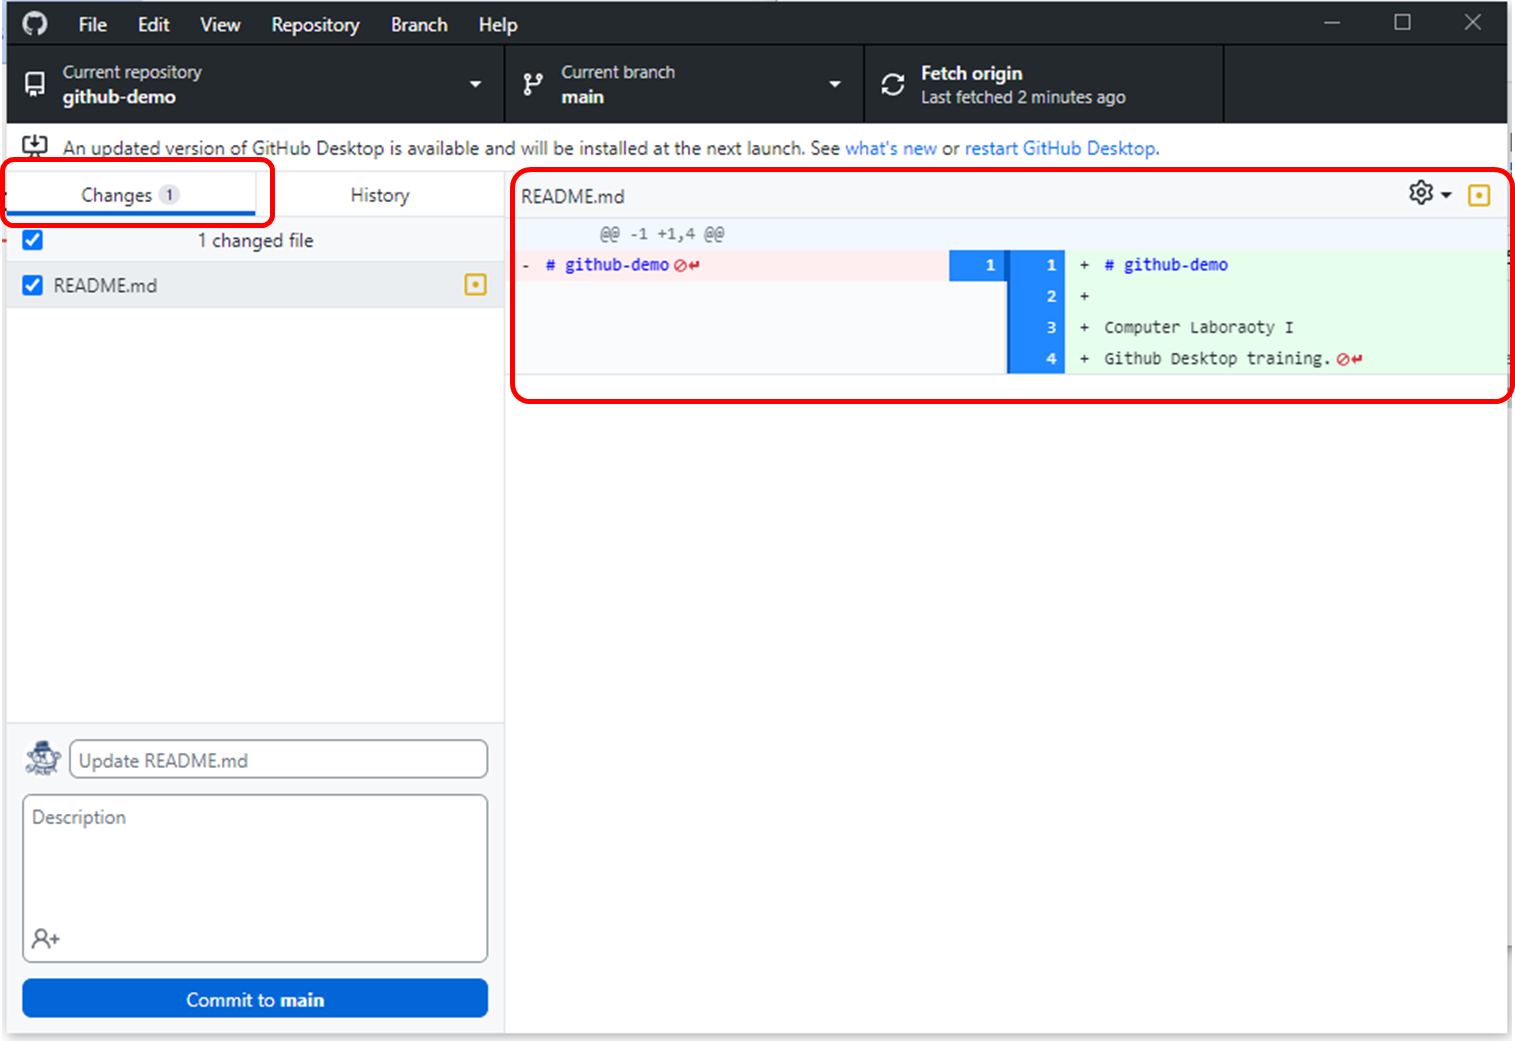
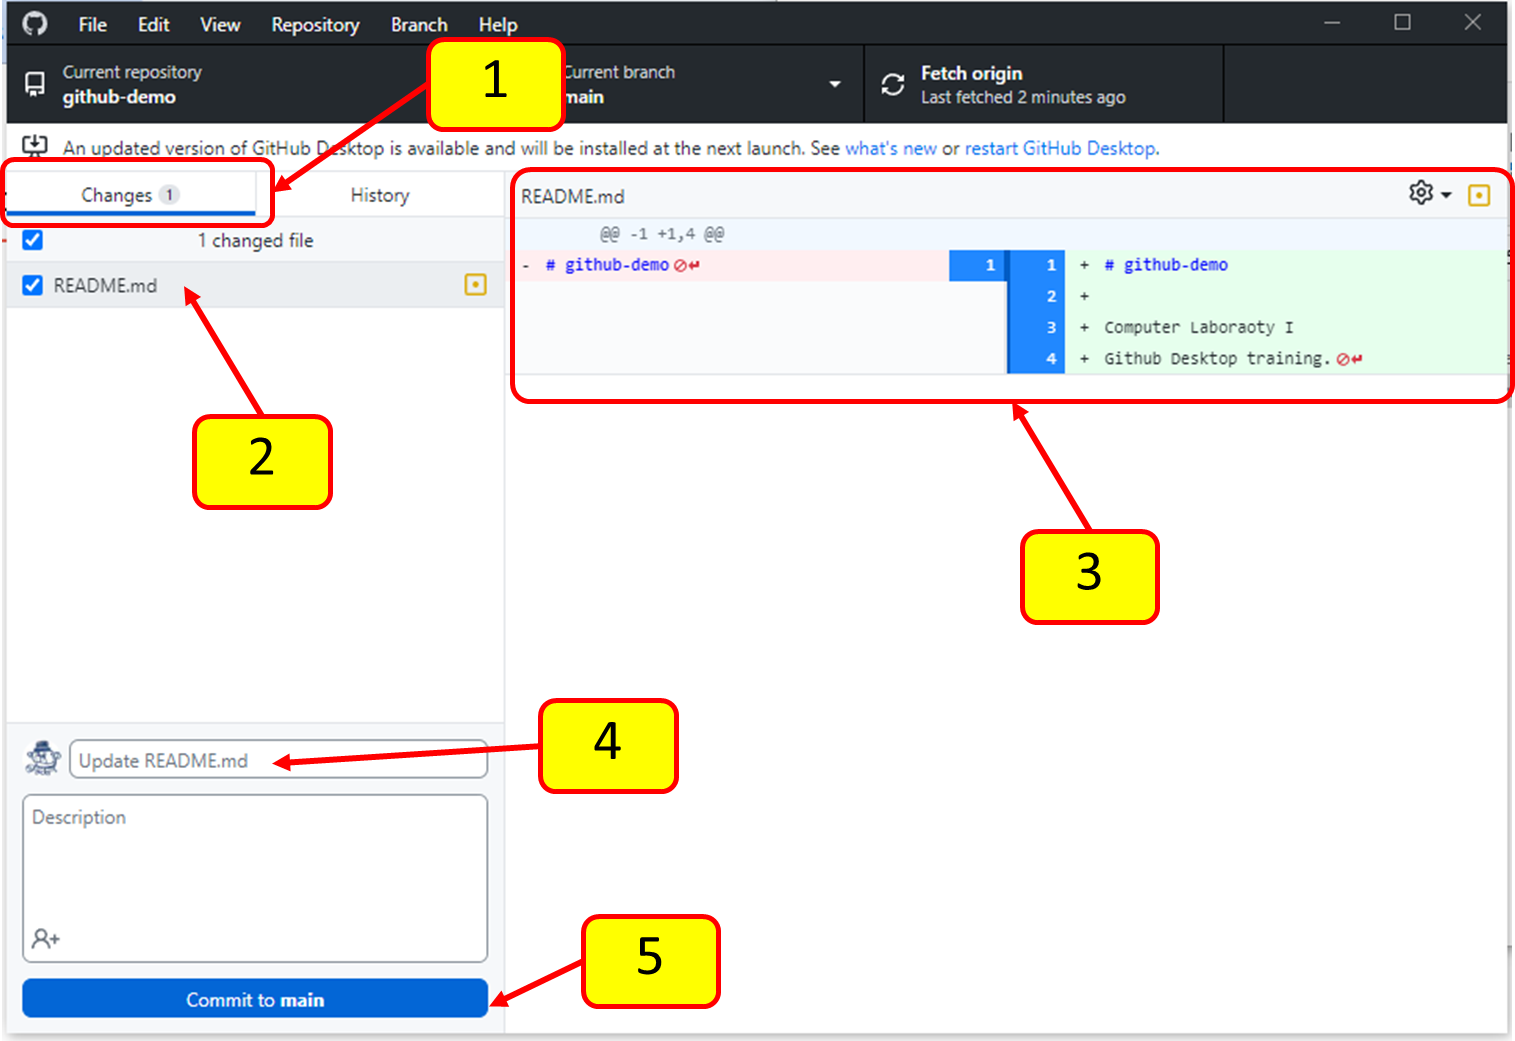
update labsheet and add picrures

diff --git a/W12-Labsheet-02.md b/W12-Labsheet-02.md
@@ -76,9 +76,105 @@
 
 บันทึกไฟล์ README.md
 
-#### 9. กลับไปที่โปนแกรม github desktop เพื่อตรวจสอบการเปลี่ยนแปลงที่เกิดขึ้น 
+#### 9. กลับไปที่โปนแกรม github desktop เพื่อตรวจสอบการเปลี่ยนแปลงที่เกิดขึ้น
 
 ![Alt text](./Pictures/Picture-12.png)
 
+(1) คลิกที่ Changes
+
+(2) คลิกที่ README.md
+
+(3) ตรวจสอบการเปลี่ยนแปลงของ README.md ว่าตรงกับที่เราแก้ไขไปหรือไม่ ถ้าไม่ตรง อาจจะเกิดจากที่ยังไม่ได้บันทึกไฟล์
+
+(4) ใส่ข้อความ commit ถ้าไม่ใส่ โปรแกรม github desktop จะเสนอตามที่ปรากฏในภาพ
+
+(5) คลิก Commit to main
+
+#### 10. push การเปลี่ยนแปลงขึ้นบน server (remote repository)
+ 
+![Alt text](./Pictures/Picture-13.png)
+
+(1)  ตรวจสอบจำนวนการ commit ที่เกิดขึ้น (ยังไม่ได่ push)
+
+(2)  คลิก Push origin เพื่อ push ไปยัง origin repository ใน github.com
+
+#### 11. ตรวจสอบสถานะใน github desktop 
+
+![Alt text](/Pictures/Picture-14.png)
+
+เทียบได้กับข้อความต่อไปนี้เมื่อใช้คำสั่ง git status ใน git bash
+
+``` md
+Your branch is up to date with 'origin/main'.
+
+nothing to commit, working tree clean
+```
+
+#### 12. กลับไปตรวจสอบสถานะใน github repository web page
+
+![Alt text](./Pictures/Picture-15.png)
+
+#### 13. กด refresh 1 ครั้ง เพื่อดูการเปลี่ยนแปลง
+
+![Alt text](./Pictures/Picture-16.png)
+
+(1) ให้คลิกที่ 2 Commits แล้วจดรหัสการ commit ที่เป็นเลขฐาน 16 ไว้ทั้งสอง commit
+
+(2) สังเกตุว่าข้อความจะไม่แบ่งบรรทัด เนื่องจากหลักการเขียน markdown จะต้องเคาะเว้นว่าง 1 บรรทัด หรือใส่อักขระช่องว่าง (space bar)  สองตัวที่ท้ายบรรทัด เพื่อบอกให้ github markdown parser รู้ว่าต้องการเว้นบรรทัด (เราจะแก้เนื้อหานี้ในลำดับถัดไป)
+
+#### 14. ตรวจสอบความสอดคล้องต้องกันระหว่าง local และ remote repository
+
+![Alt text](./Pictures/Picture-17.png)
+
+
+กลับไปที่ github desktop ให้คลิกที่รายการ commit ต่างๆ แล้วบันทึกชื่อ พร้อมรัสฐาน 16  เปรียบเทียบว่าตรงกับบน web browser หรือไม่ อย่างไร
+
+#### 15. แก้ไขไฟล์ README.md (บน web browser) ให้แสดงผลได้อย่างถูกต้อง
+
+1 ) คลิกที่ปุ่มดินสอ เพื่อแก้ไขไฟล์ README.md
+
+![Alt text](./Pictures/Picture-18.png)
+
+2 )  github จะเปิดหน้าต่างการแก้ไขดังรูป
+
+![Alt text](./Pictures/Picture-19.png)
+
+3 )  กดปุ่ม Preview เพื่อแสดงตัวอย่างผลลัพธ์ที่จะได้
+
+![Alt text](./Pictures/Picture-20.png)
+
+4 )  คลิกกลับมาที่ Edit แล้วเพิ่มบรรทัดว่าง 1 ระหว่างบรรทัดที่ 4 และ 5
+
+![Alt text](./Pictures/Picture-21.png)
+
+5 )  กดปุ่ม Preview เพื่อแสดงตัวอย่างผลลัพธ์ที่ได้
+
+![Alt text](./Pictures/Picture-22.png)
+
+เมื่อได้ผลตามต้องการ ให้ commit change  
+
+6 )  ใส่ข้อความ commit และกด commit change
+
+![Alt text](./Pictures/Picture-23.png)
+
+7 )  ตรวจสอบและจดบันทึกประวัติการ commit เพื่อไว้เทียบกับ github desktop
+
+![Alt text](./Pictures/Picture-24.png)
+
+#### 16. ตรวจสอบและทำ git pull ที่ github desktop
+
+![Alt text](./Pictures/Picture-25.png)
+
+คลิก Pull origin เพื่อดึงการเปลี่ยนแปลงบน remote มาที่ local repository
+
+#### 17. ตรวจสอบประวัติการ commit ที่บน github desktop เทียบกับที่บน  server
+
+![Alt text](./Pictures/Picture-26.png)
+
+ตรวจสอบให้ครบทั้งชื่อการ commit และ hash code (เลขฐาน 16) ของแต่ละ commit ว่าตรงกันหรือไม่ (เทียบกันเป็นตาราง markdown)
+
+#### 18. ตรวจสอบการเปลี่ยนแปลงในไฟล์ README.md โดนการเปิดใน text editor
+
+![Alt text](./Pictures/Picture-27.png)
 
 ## [>> การใช้งาน github desktop>>](W12-Labsheet-01.md)
